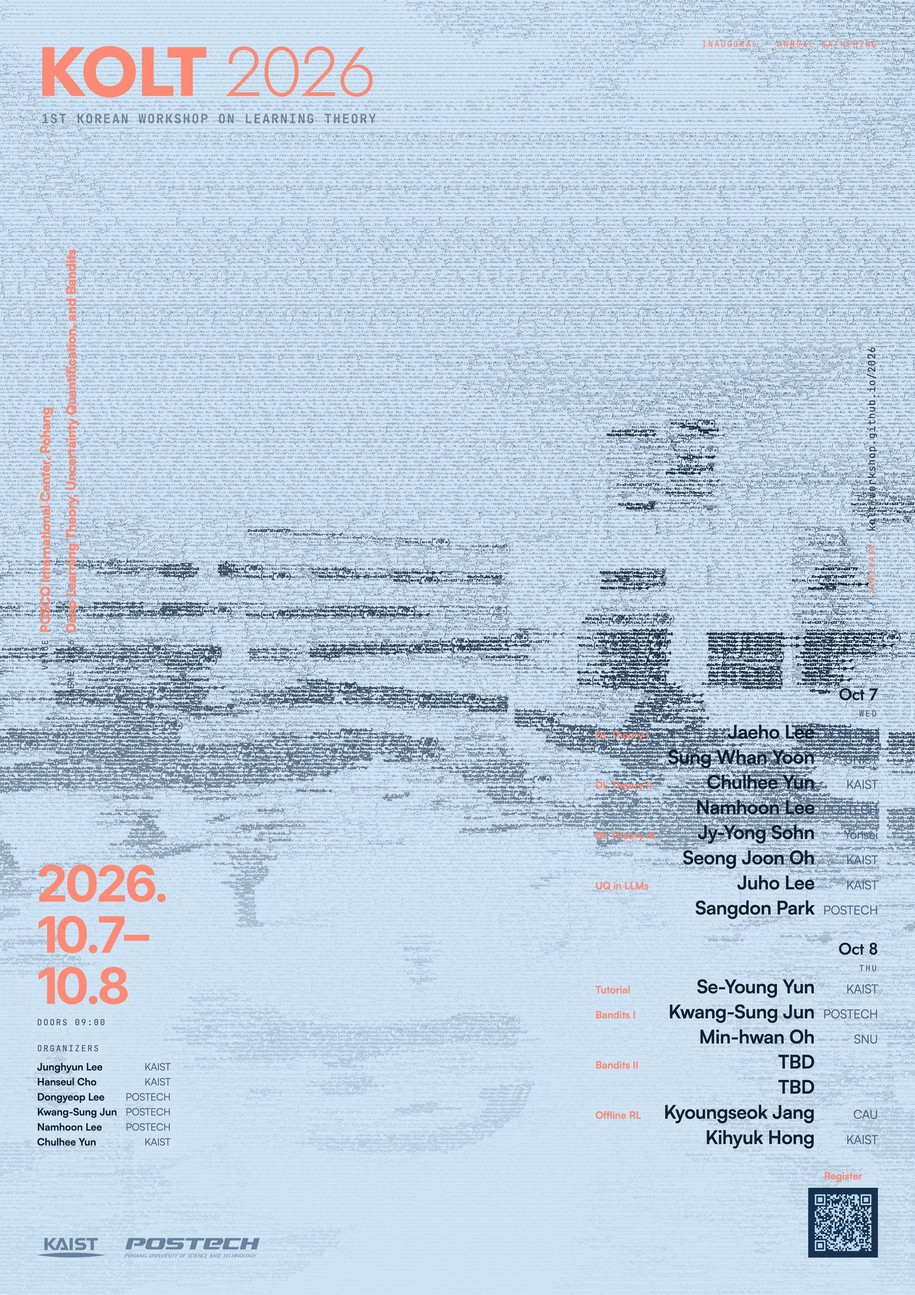
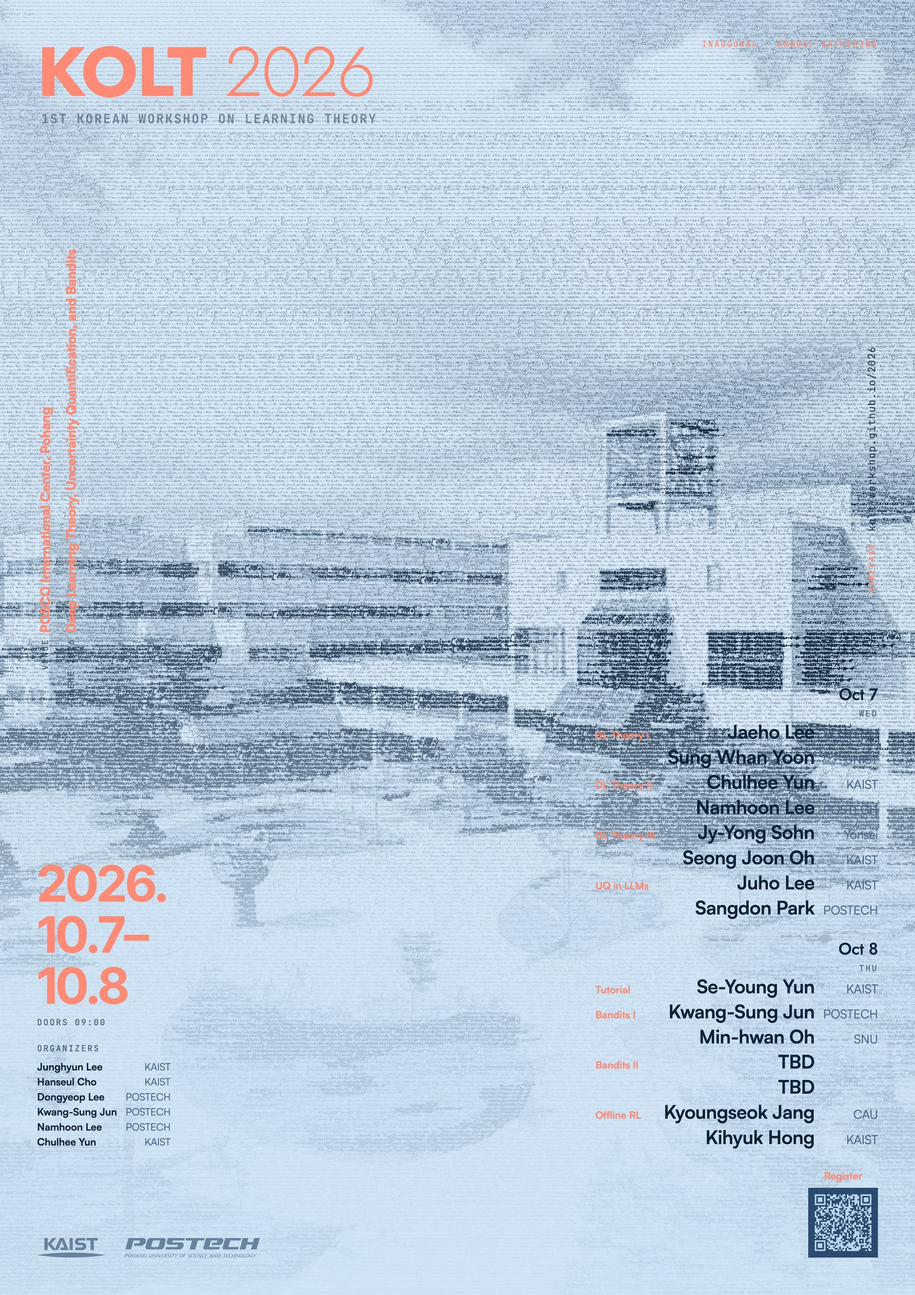
The light sheet gets its photograph and its blue back
Two things were wrong with it and both were mine.

The drawing's strokes are currentColor, and nothing set a colour on the layer
that holds them — so they inherited the sheet's text ink, which on the light
sheet is a near-black navy. The drawing came out black where art_ink was meant
to make it blue. The layer sets its colour now.

And it had no photograph at all behind the formulas. The tones the photograph
is printed in were hardcoded to the dark sheet's, with a light variant chosen
by layout name — which cannot tell a light festival sheet from a dark one. They
are palette values now, so the light sheet asks for the pale pair and gets one.

On the site, the travel card loses the rules I put on every row. They were
meant to give it a rhythm and what they gave it was a table: a line under each
fact, and a line's worth of height with it. Fewer lines, tighter rows, and the
map's minimum drops from 420 to 320 — it was sized for a card that is no longer
that tall and was stretching the row on its own.

The speaker cards' field tag sat 9px under its rule, close enough to read as
attached to it. 14px.

Mobile host marks go to 76px.

diff --git a/templates/style.css b/templates/style.css
@@ -2251,7 +2251,10 @@ h2 .note {
    cards that don't. */
 .spk-topic {
   margin-top: auto;
-  padding-top: 9px;
+  /* The rule belongs to the tag under it, and 9px put the tag almost on the
+     line. It reads as a caption on the card's foot, so it needs the space a
+     caption gets. */
+  padding-top: 14px;
   border-top: 1px solid var(--line);
   font-family: var(--mono);
   font-size: 0.66rem;
@@ -2376,7 +2379,7 @@ h2 .note {
   border-radius: var(--radius);
   overflow: hidden;
   background: var(--wash);
-  min-height: 420px;
+  min-height: 320px;
   line-height: 0; /* no baseline gap under the iframe */
 }
 /* Pinned to the box rather than sized at 100% of it. A percentage height needs
@@ -2493,7 +2496,7 @@ h2 .note {
   border-top: 1px solid var(--wash);
 }
 .venue-rooms li {
-  padding: 0 0 7px;
+  padding: 0 0 5px;
 }
 .venue-rooms li.minor {
   padding-top: 10px;
@@ -2730,7 +2733,7 @@ footer a {
     gap: 26px;
   }
   .hosts-row img {
-    height: 54px;
+    height: 76px;
     max-width: 100%;
   }
 
@@ -3139,7 +3142,7 @@ footer a {
    in the accent. Without them the groups ran together as one column of facts;
    as plain headings they were larger than the facts they head. */
 .venue-h {
-  margin: 16px 0 8px;
+  margin: 13px 0 6px;
   font-family: var(--mono);
   font-size: 0.62rem;
   font-weight: 500;
@@ -3182,8 +3185,7 @@ footer a {
   list-style: none;
 }
 .stay-list li {
-  padding: 5px 0;
-  border-top: 1px solid var(--wash);
+  padding: 4px 0;
 }
 .stay-head {
   display: flex;

diff --git a/tools/poster.py b/tools/poster.py
@@ -92,6 +92,10 @@ PALETTE = {
     # plate under the campus wants them quieter, or the two together bury the
     # title.
     "art_alpha": "1",
+    # The photograph behind the formulas, as two tones and a drive.
+    "ghost_shadow": "#0a111d",
+    "ghost_light": "#b9cbe4",
+    "ghost_contrast": "0.92",
     # And how strongly the photograph behind the formulas is felt. On the dark
     # sheet it is there to hold the shape together between the marks and is
     # meant to be felt rather than seen. On paper it has more to do: the ground
@@ -1981,13 +1985,14 @@ def main(art_path, out_path, layout="stack", photo=None, cutout=None, duotone=No
         # between the marks. On a pale sheet the photograph has to carry the
         # difference between a pale building and a pale sky, and at the default
         # the two arrive within a few levels of each other.
+        # The two tones the photograph is printed in, and how hard it is driven.
+        # Palette values, because a sheet on paper wants them the other way up
+        # from a sheet on a dark ground and the layout alone cannot tell which
+        # of the two a scheme is.
         ghost_layer = (
             '<div class="ghost">'
-            + photo_svg(ghost,
-                        PALETTE["carbon"] if light_ground else "#0a111d",
-                        PALETTE["paper"] if light_ground else PALETTE["art_ink"],
-                        gw, gh,
-                        contrast=1.35 if light_ground else 0.92)
+            + photo_svg(ghost, PALETTE["ghost_shadow"], PALETTE["ghost_light"],
+                        gw, gh, contrast=float(PALETTE["ghost_contrast"]))
             + "</div>")
 
     if cutout:
